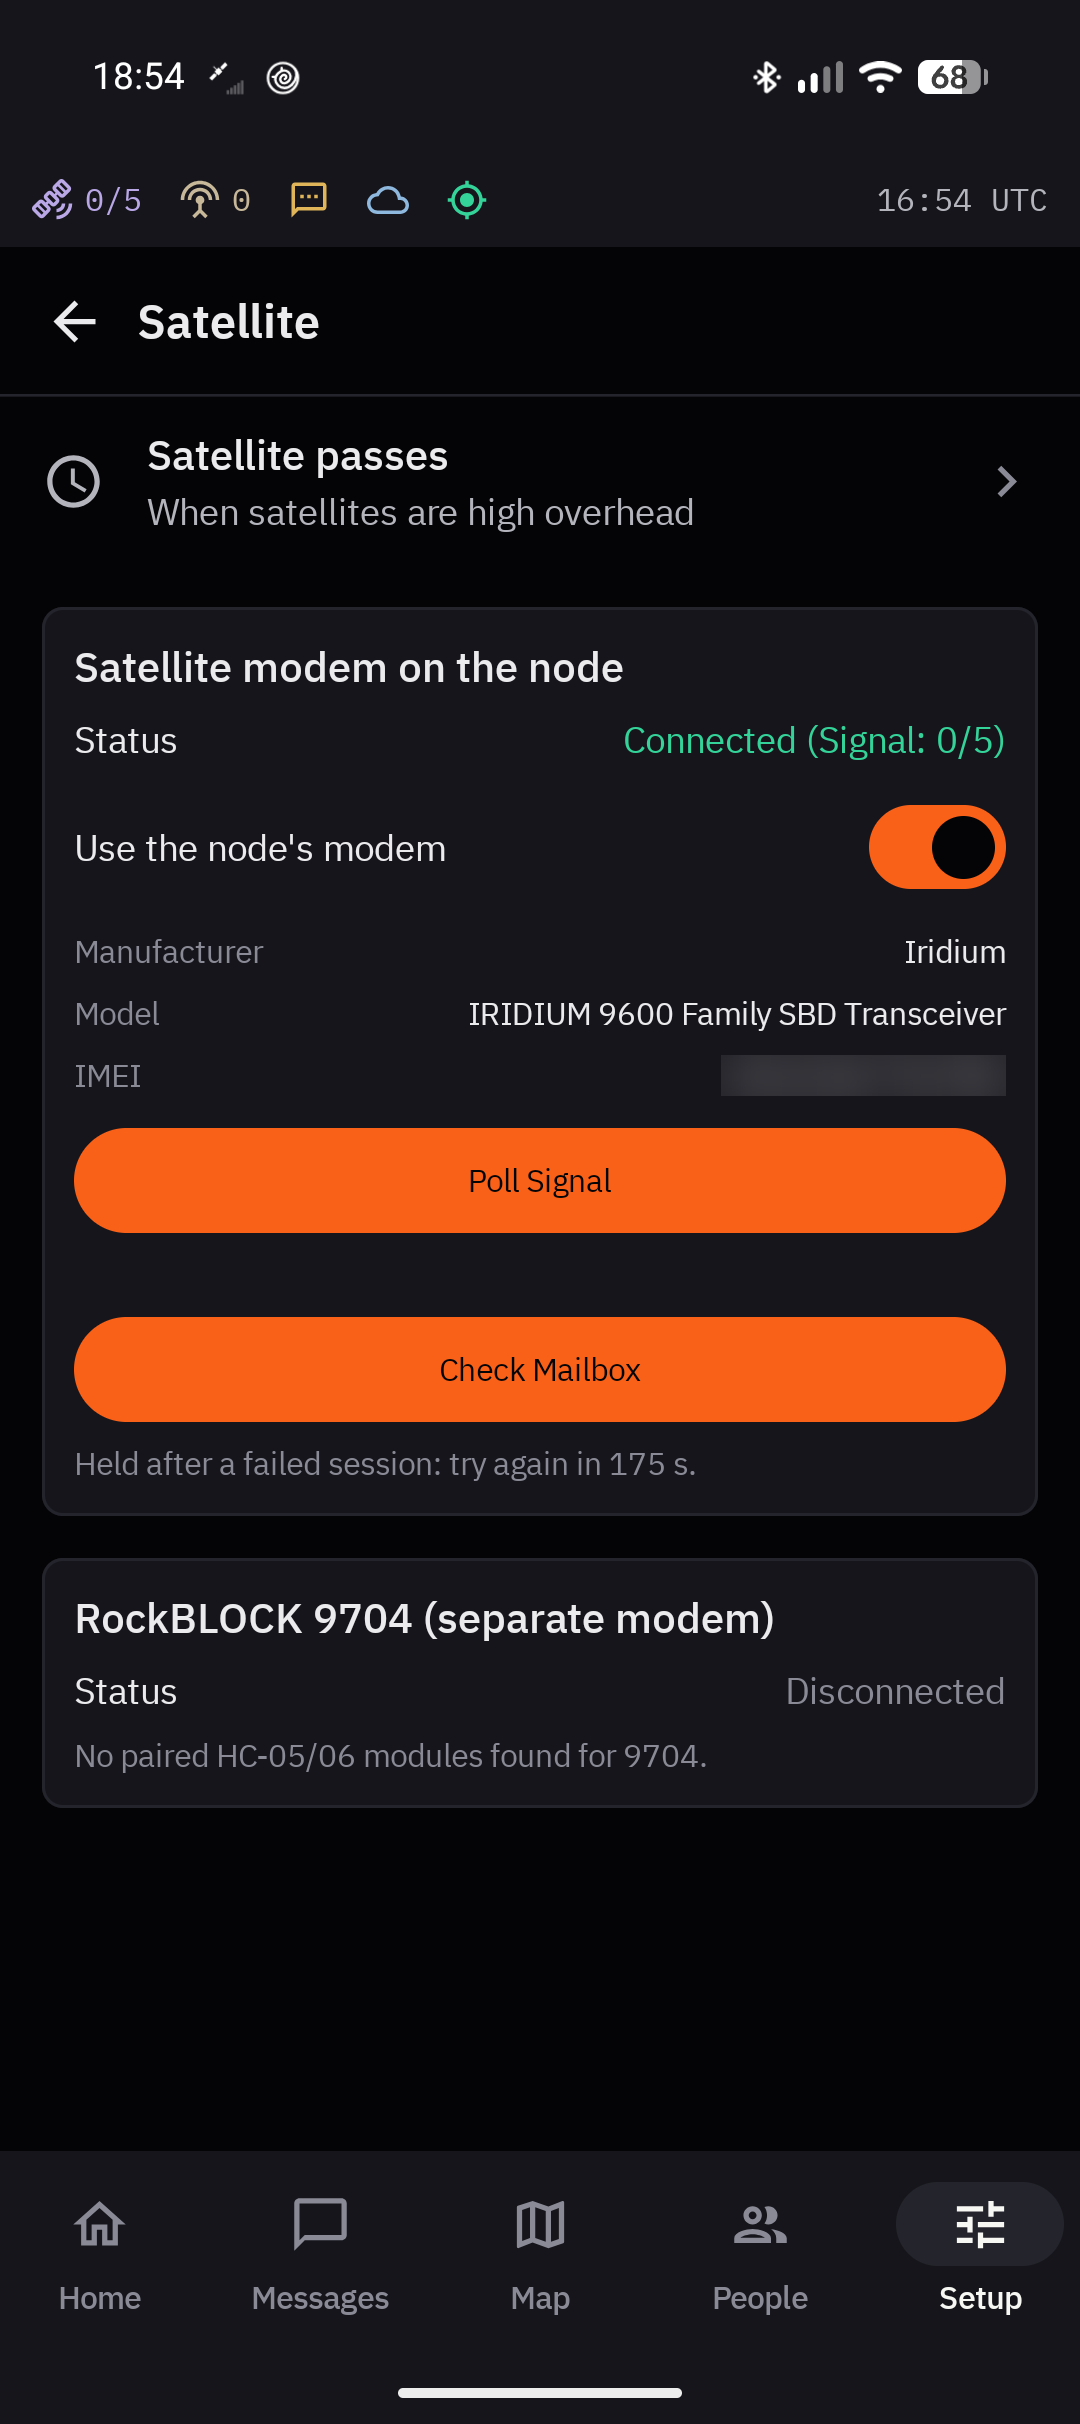
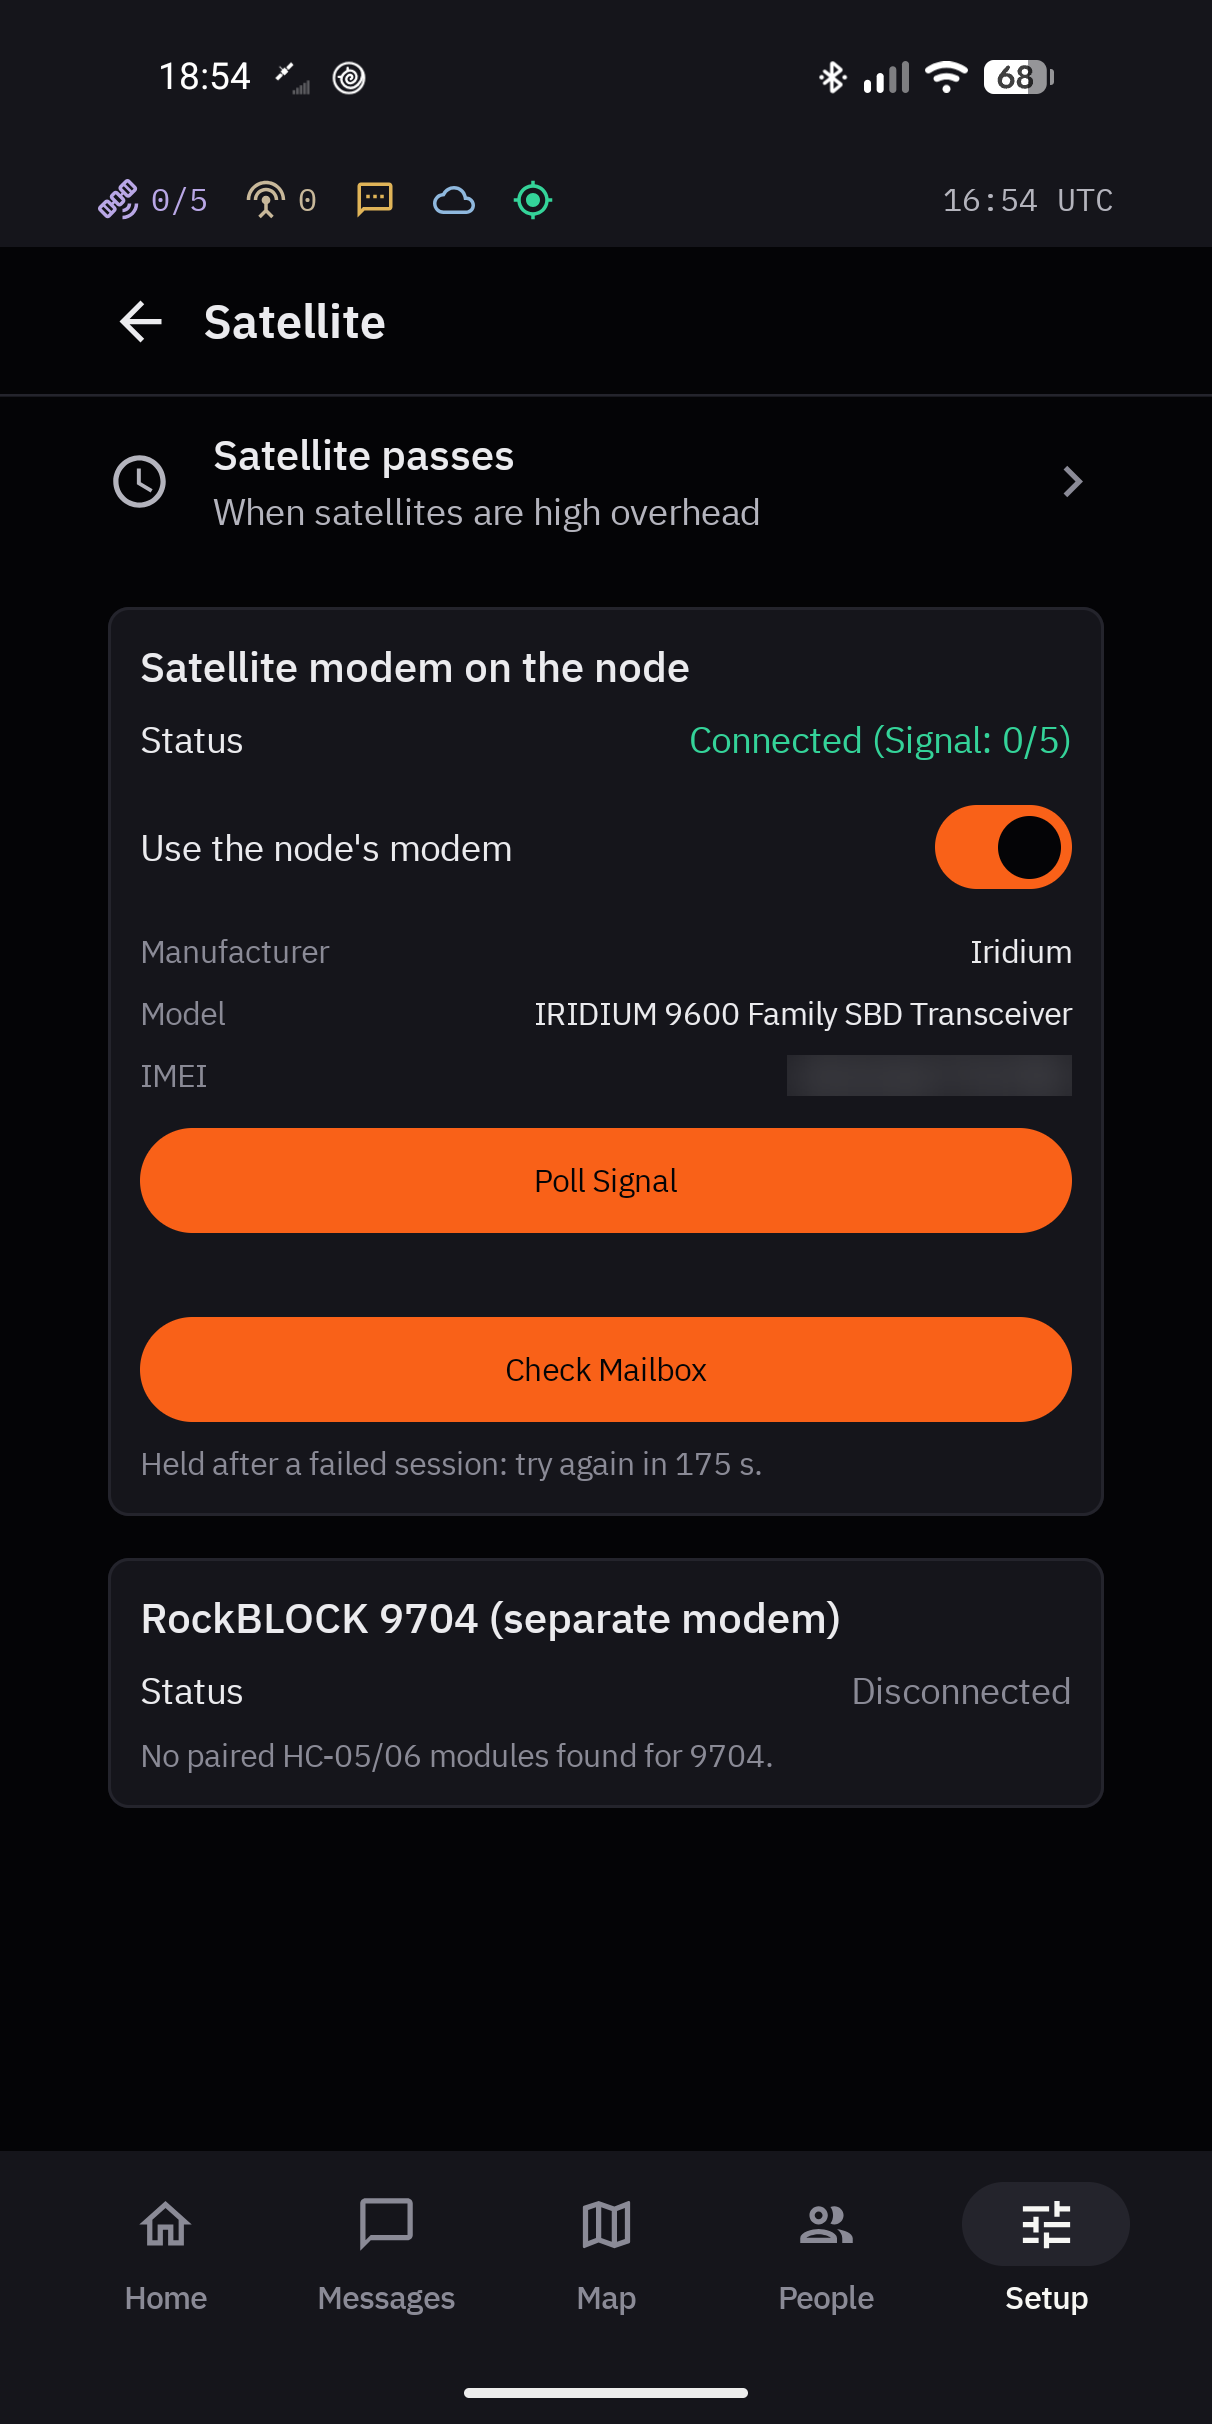
fix(play): screenshots padded to 2:1, the ratio Play accepts [MESHSAT-1335]
Play rejects a screenshot whose long side is more than twice its short side;
the phone's are 1080x2424. Padded to 1212x2424 by extending the edge pixels,
24-bit PNG without alpha as Play requires.

diff --git a/fastlane/metadata/play/README.md b/fastlane/metadata/play/README.md
@@ -9,6 +9,9 @@ promise SMS three times.
 - `en-US/images/featureGraphic.png`: 1024 x 500, cut from the developer-page header
   (`Branding/Google Play/developer-header-4096x2304-logo.jpg`, the sticker logo lockup).
 - `en-US/images/phoneScreenshots/1-4.png`: F-Droid screenshots 3 to 6 (passes, node, satellite,
+  safety), padded to 1212 x 2424 by extending the edge pixels: Play rejects a screenshot whose
+  long side is more than twice its short side, and the phone is 1080 x 2424. 24-bit PNG, no alpha.
+  They are the same screens as
   safety). Home and Setup are left out because they show the SMS lane and row of the full
   edition; retake them from a `play` build when the listing gets its own set.
 - Release notes come from `fastlane/metadata/android/en-US/changelogs/<versionCode>.txt`, which
